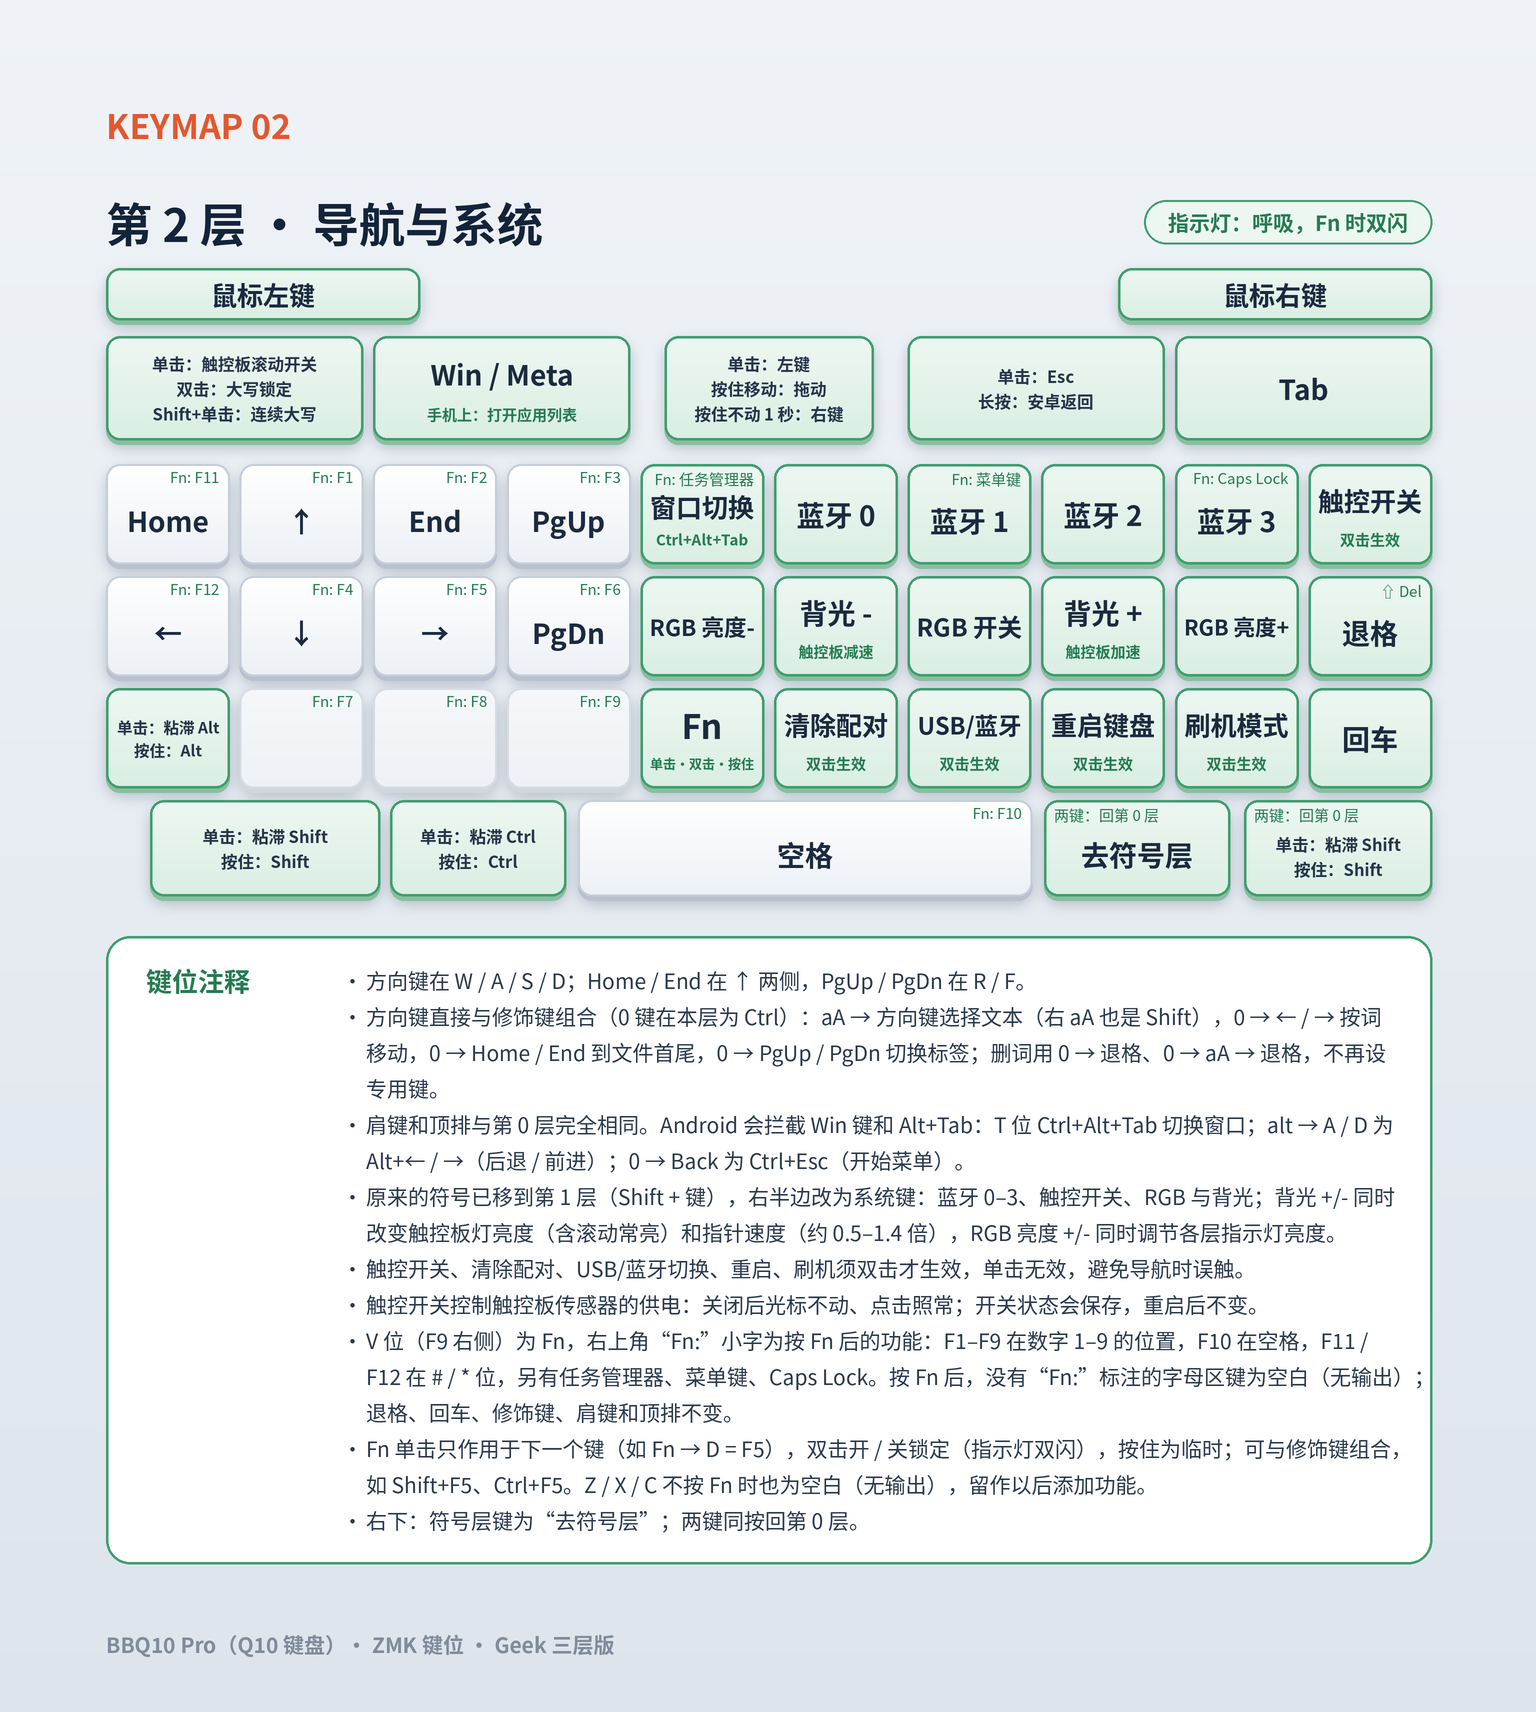
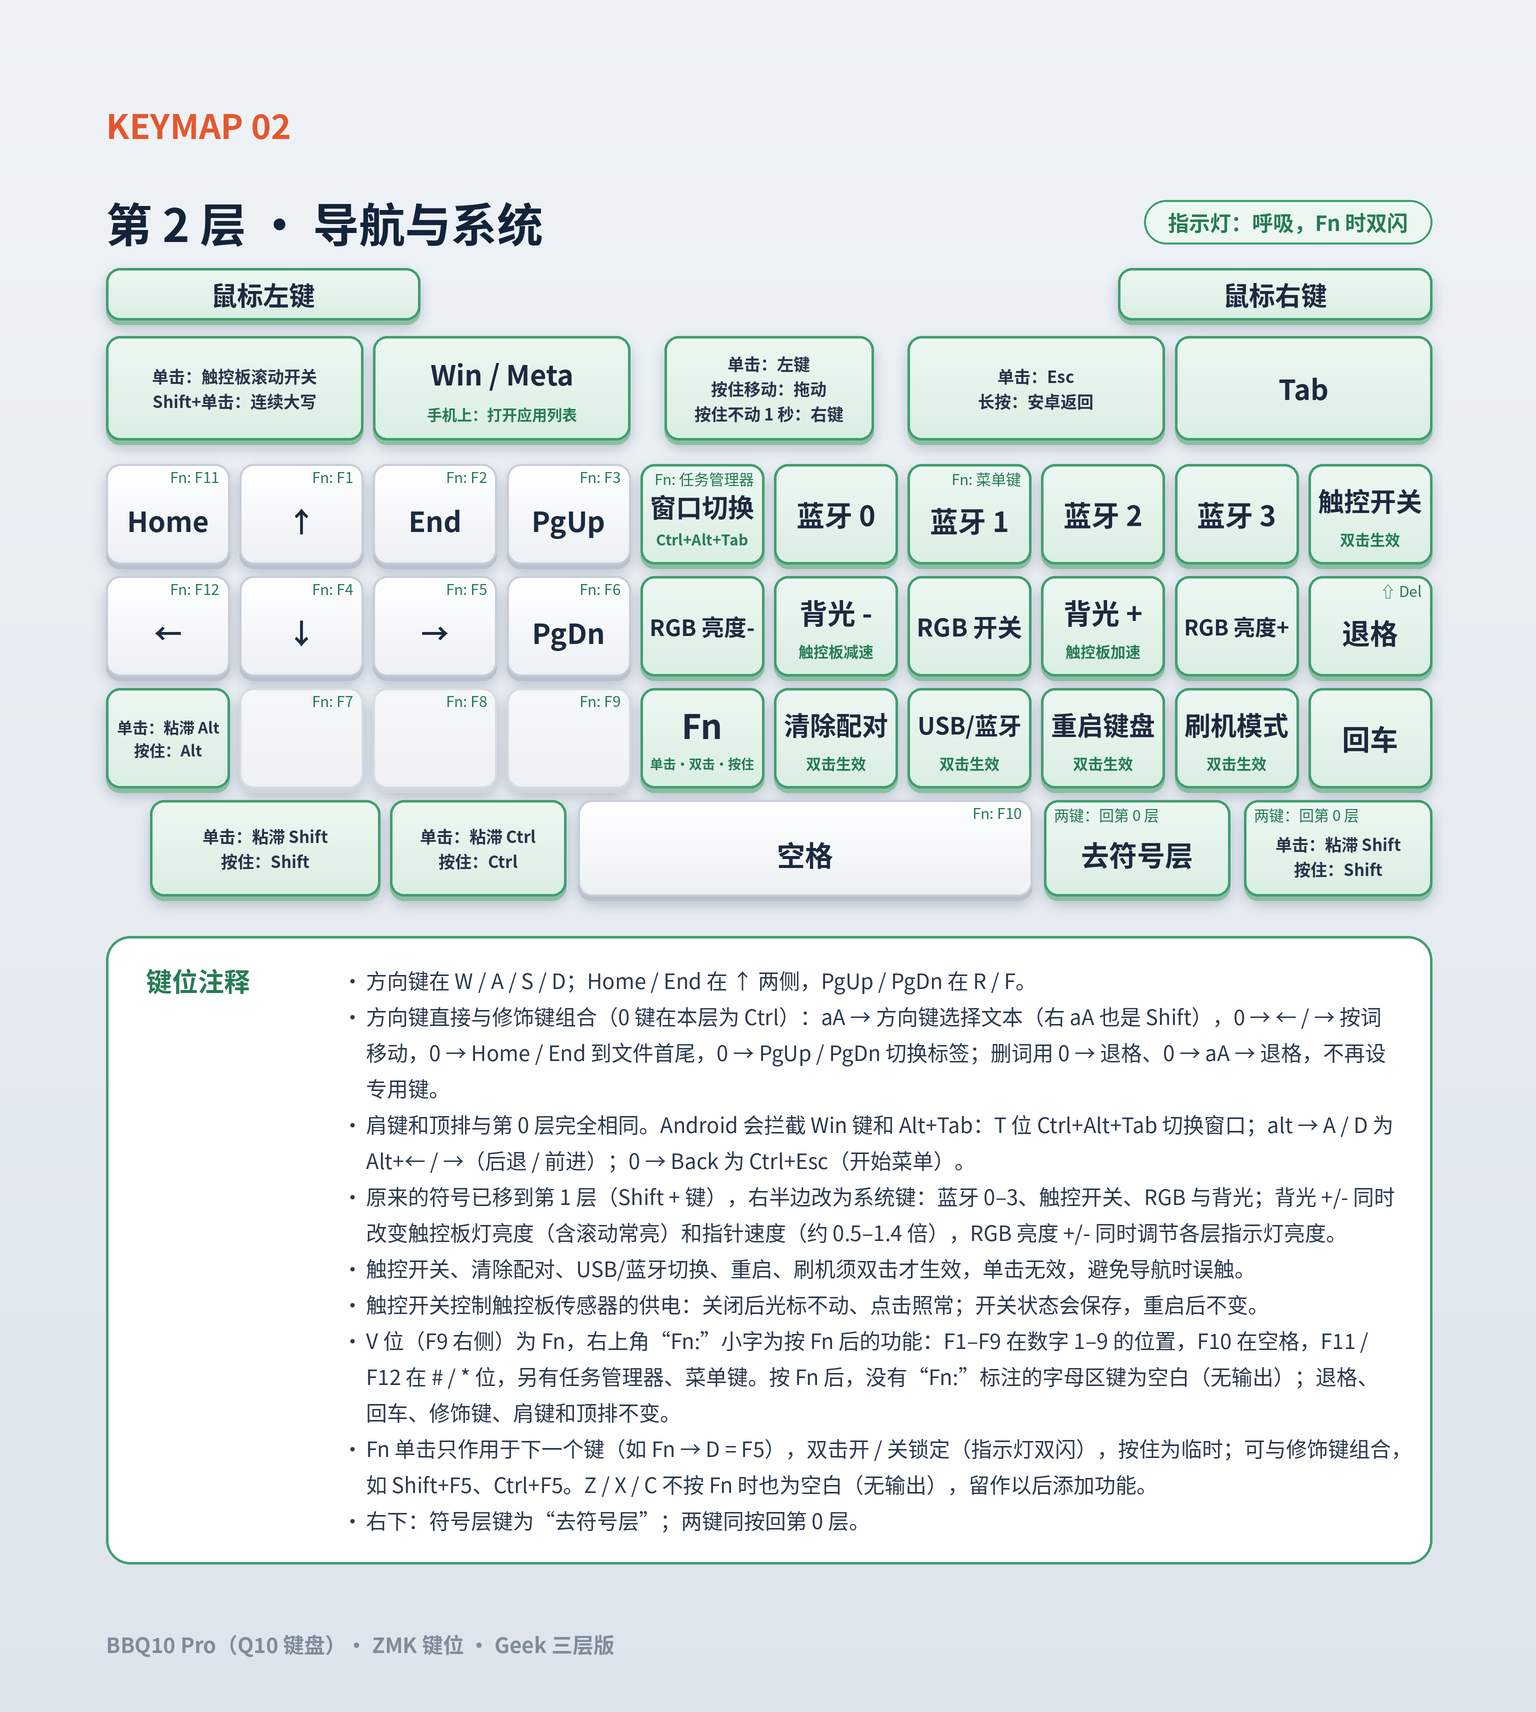
Drop Caps Lock: the Call key only toggles scrolling
Caps Lock took the Call key's double-tap and a trackpad LED signal,
like a whole layer, for all-caps typing that is rarely needed. Caps
Word (Shift+tap Call) covers the usual cases and ends by itself.

- Call key: tap toggles trackpad scrolling, Shift+tap is Caps Word,
  no double-tap. The double-tap-toggle behavior stays in the tree and
  builds to nothing without an instance
- Fn layer: drop Caps Lock from O
- Trackpad LED: no Caps Lock light; outside scroll mode it is off
- README, the Kconfig help and the diagrams drop Caps Lock

diff --git a/config/boards/arm/zitaotech_q10/custom_driver/trackpad_led.c b/config/boards/arm/zitaotech_q10/custom_driver/trackpad_led.c
@@ -21,9 +21,8 @@
 #include "a320.h"
 #include "led_duty.h"
 
-#define HID_INDICATORS_CAPS_LOCK (1 << 1)
 #define HID_INDICATORS_SCROLL_LOCK (1 << 2)
-/* 滚动模式只跟随 Scroll Lock（单击 Call 键），灯按亮度级别常亮；Caps Lock（双击 Call 键）时灯常亮；触摸触控板不点灯 */
+/* 滚动模式只跟随 Scroll Lock（单击 Call 键），灯按亮度级别常亮；不在滚动模式时熄灭，触摸触控板不点灯 */
 
 LOG_MODULE_DECLARE(zmk, CONFIG_ZMK_LOG_LEVEL);
 
@@ -38,14 +37,12 @@ static const struct device *const led_dev = DEVICE_DT_GET(DT_CHOSEN(zmk_trackpad
 
 #define BRT_MIN 10
 #define BRT_MAX 100
-#define BRT_LOW 20
-#define BRT_CAPS BRT_LOW /* Caps Lock 打开时触控板灯常亮的亮度 */
 
 #define ANIMATION_INTERVAL_MS 20 /* 滚动模式下按这个间隔刷新常亮的灯，调背光 +/- 时立即跟着变 */
 #define POLLING_INTERVAL_MS 5
 #define AUTO_OFF_DELAY_MS 5000
 
-/* 没有按键、触控板也没动超过这个时间就熄灯（滚动常亮、Caps Lock 常亮、USB 闪烁也一样），再操作即恢复 */
+/* 没有按键、触控板也没动超过这个时间就熄灯（滚动常亮、USB 闪烁也一样），再操作即恢复 */
 #define IDLE_TIMEOUT_MS CONFIG_TRACKPAD_LED_IDLE_TIMEOUT
 
 #define FLASH_ON_MS 100   /* USB 模式亮灯时间 */
@@ -57,7 +54,6 @@ static struct k_work_delayable auto_off_work;
 static struct k_work_delayable usb_flash_work;
 
 static bool scroll_mode_on = false;
-static bool caps_lock_on = false;
 
 static uint8_t last_valid_brt = BRT_MAX;
 static uint8_t last_backlight_brt = 0;
@@ -95,14 +91,11 @@ static void set_led_brightness(uint8_t level) {
     write_led();
 }
 
-/* 不在滚动模式时的亮度：Caps Lock 打开时常亮，否则熄灭 */
-static uint8_t idle_brightness(void) { return caps_lock_on ? BRT_CAPS : 0; }
-
 /* USB 闪烁处理 */
 static void usb_flash_work_handler(struct k_work *work) {
     if (!usb_mode) {
-        /* 如果已经不在 USB 模式，恢复蓝牙模式的灯并退出 */
-        set_led_brightness(idle_brightness());
+        /* 如果已经不在 USB 模式，恢复蓝牙模式的灯（熄灭）并退出 */
+        set_led_brightness(0);
         return;
     }
 
@@ -117,7 +110,7 @@ static void usb_flash_work_handler(struct k_work *work) {
 static void auto_off_work_handler(struct k_work *work) {
     if (!scroll_mode_on) {
         manual_override = false;
-        set_led_brightness(idle_brightness());
+        set_led_brightness(0);
         LOG_DBG("Auto-off triggered after inactivity");
     }
 }
@@ -163,7 +156,6 @@ static void polling_work_handler(struct k_work *work) {
     enum zmk_transport transport = zmk_endpoints_selected().transport;
     zmk_hid_indicators_t indicators = zmk_hid_indicators_get_current_profile();
     bool current_scroll = indicators & HID_INDICATORS_SCROLL_LOCK;
-    bool current_caps = indicators & HID_INDICATORS_CAPS_LOCK;
     bool current_active = (zmk_activity_get_state() == ZMK_ACTIVITY_ACTIVE);
     uint8_t current_brt = zmk_backlight_get_brt();
 
@@ -188,7 +180,7 @@ static void polling_work_handler(struct k_work *work) {
         /* 从 USB 切回 BLE，需要停止闪烁并恢复蓝牙模式的灯 */
         usb_mode = false;
         k_work_cancel_delayable(&usb_flash_work);
-        set_led_brightness(idle_brightness());
+        set_led_brightness(0);
         LOG_INF("Exited USB flash mode");
     }
 
@@ -207,9 +199,6 @@ static void polling_work_handler(struct k_work *work) {
         last_valid_brt = MAX(BRT_MIN, current_brt);
     }
 
-    bool caps_changed = current_caps != caps_lock_on;
-    caps_lock_on = current_caps;
-
     /* 滚动模式（Scroll Lock）：按亮度级别常亮 */
     if (current_scroll != scroll_mode_on) {
         scroll_mode_on = current_scroll;
@@ -218,13 +207,8 @@ static void polling_work_handler(struct k_work *work) {
         } else {
             k_work_cancel_delayable(&animation_work);
             manual_override = false;
-            set_led_brightness(idle_brightness());
+            set_led_brightness(0);
         }
-    }
-
-    /* Caps Lock 变化：不在滚动模式时立刻更新常亮 / 熄灭 */
-    if (caps_changed && !scroll_mode_on) {
-        set_led_brightness(idle_brightness());
     }
 
     /* 背光亮度变化 */
@@ -252,7 +236,7 @@ static int indicator_tp_init(void) {
     usb_mode = false;
     usb_flash_state = false;
     last_backlight_brt = zmk_backlight_get_brt();
-    scroll_mode_on = caps_lock_on = manual_override = keyboard_active = false;
+    scroll_mode_on = manual_override = keyboard_active = false;
     last_activity_ms = k_uptime_get();
     last_motion_counts = a320_motion_counts();
 

diff --git a/README.md b/README.md
@@ -55,13 +55,13 @@ Layer diagrams for the keymap in `config/zitaotech_q10.keymap`.
 ## Build your own driver
 You can change the source code under the ```/config/boards/arm/zitaotech_q10/custom_driver```
 
-For example if you want to change the scroll direction in scroll mode (Scroll Lock on: tap the Call key; double-tap it for Caps Lock, which does not affect the trackpad):
+For example if you want to change the scroll direction in scroll mode (Scroll Lock on: tap the Call key):
 Go to `a320_scroll_steps()` in [a320.c](config/boards/arm/zitaotech_q10/custom_driver/a320.c) and change ```scroll_remainder_y -= dy``` to ```scroll_remainder_y += dy``` for vertical scrolling, or ```scroll_remainder_x += dx``` to ```scroll_remainder_x -= dx``` for horizontal scrolling.
 Each swipe scrolls in one direction only: after `SCROLL_AXIS_LOCK_COUNTS` sensor counts it locks to the axis it moved more along, until the finger stops or lifts.
 
 The scroll speed is set by `CONFIG_A320_TRACKPAD_SCROLL_INTERVAL` in `config/zitaotech_q10.conf`: the trackpad movement (sensor counts) per wheel step, the bigger this value, the slower the trackpad scrolls.
 
-The trackpad LED turns off after `CONFIG_TRACKPAD_LED_IDLE_TIMEOUT` milliseconds without a key press or trackpad movement (30000 in `config/zitaotech_q10.conf`, 0 keeps it on), also when it is on in scroll mode, stays on for Caps Lock or flashes for USB output; the next key press or movement brings it back.
+The trackpad LED turns off after `CONFIG_TRACKPAD_LED_IDLE_TIMEOUT` milliseconds without a key press or trackpad movement (30000 in `config/zitaotech_q10.conf`, 0 keeps it on), also when it is on in scroll mode or flashes for USB output; the next key press or movement brings it back.
 
 The trackpad LED and the key backlight turn their brightness level (0-100) into the PWM duty with `led_duty()` in [led_duty.h](config/boards/arm/zitaotech_q10/custom_driver/led_duty.h). It is squared, so the lowest step (10) is a faint glow at about 1% while 100 stays at 100%.
 The key backlight's layer indicators (blinking on layer 1, breathing on layer 2, double flash for Fn) peak at the RGB brightness as well, but at least at 20 (about 4%) so the effects can still be told apart; their dim phases scale down with it.
